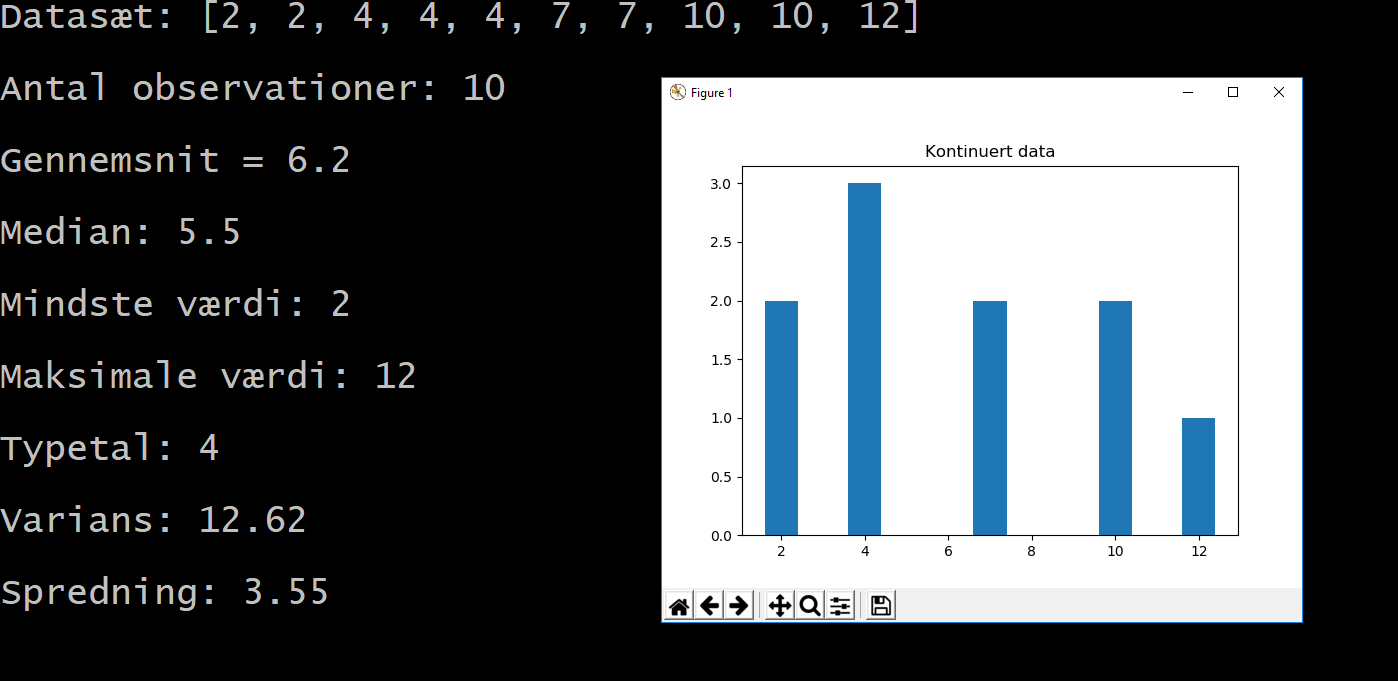
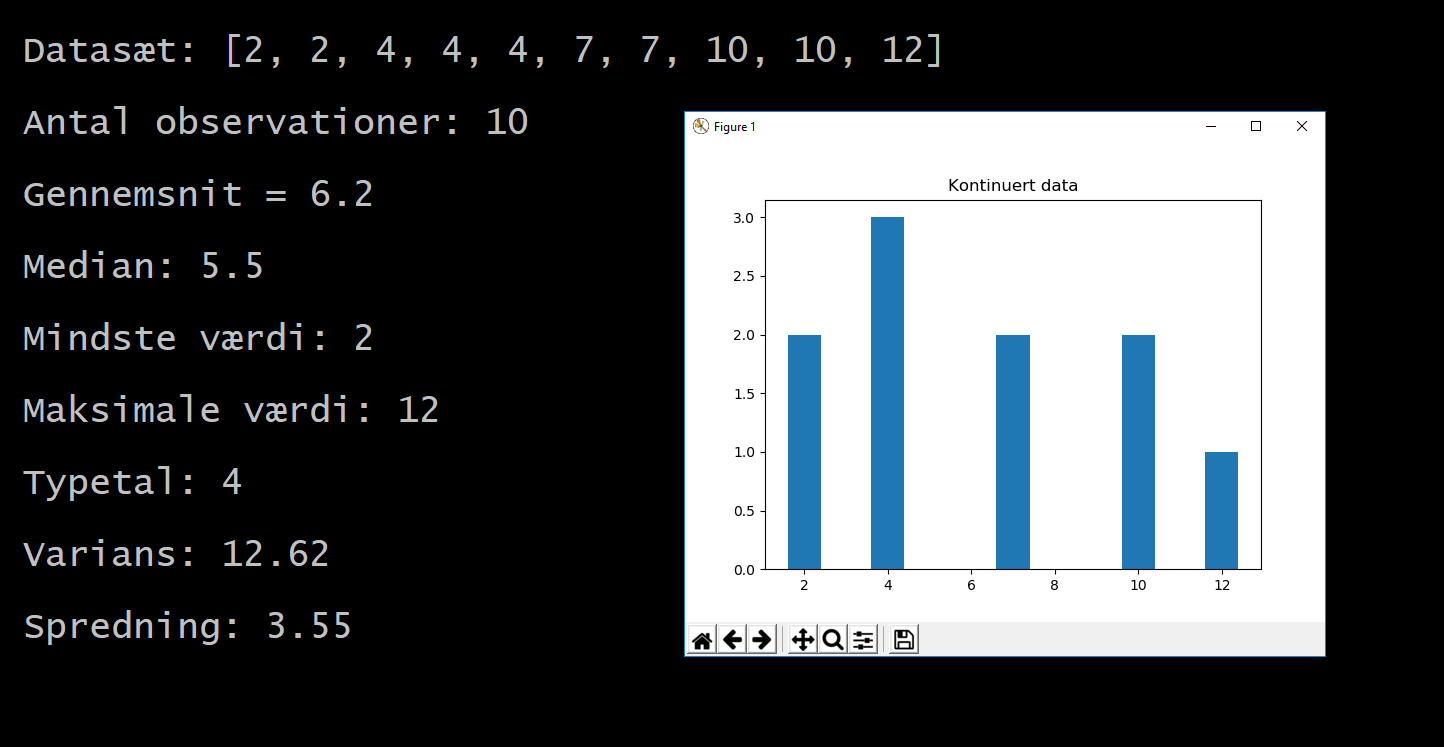
1

diff --git a/python/python09_statistik.html b/python/python09_statistik.html
@@ -201,8 +201,6 @@ Der er ikke noget typtetal.
 	</code>
 </pre>
 
-
-
 <h1>Varians og spredning</h1>
 
 <table class="_">
@@ -231,6 +229,41 @@ Der er ikke noget typtetal.
 >>> st.stdev(x)
 3.552776691859794
 	</code>
+</pre>
+
+<h1>Percentiler</h1>
+
+<pre>
+	<code class="python">
+import statistics as st
+import numpy as np
+
+x = [2, 2, 4, 4, 4, 7, 7, 10, 10, 12]
+
+print("Datasæt: {0}\n".format(x))
+
+print("Percentilsæt")
+
+for i in range(10,101,10):
+
+	print("Værden for den {0}. percentil er: {1}".format(i, round(np.percentile(x,i),1)))
+	</code>
+</pre>
+
+<pre class="black">
+Datasæt: [2, 2, 4, 4, 4, 7, 7, 10, 10, 12]
+
+Percentilsæt
+Værden for den 10. percentil er: 2.0
+Værden for den 20. percentil er: 3.6
+Værden for den 30. percentil er: 4.0
+Værden for den 40. percentil er: 4.0
+Værden for den 50. percentil er: 5.5
+Værden for den 60. percentil er: 7.0
+Værden for den 70. percentil er: 7.9
+Værden for den 80. percentil er: 10.0
+Værden for den 90. percentil er: 10.2
+Værden for den 100. percentil er: 12.0
 </pre>
 
 <h1>Program eksempler</h1>
@@ -310,7 +343,7 @@ Der er ikke noget typtetal.
 
 <figure id="">
 
-	<img class="p70" src="images/python_kontinuert_data_output.png" alt="_" title="_" />
+	<img class="p90" src="images/python_kontinuert_data_output.png" alt="_" title="_" />
 
 	<figcaption>_</figcaption>
 

diff --git a/python/programmer/Valg og funktioner/Egne funktioner/statistic_test.py b/python/programmer/Valg og funktioner/Egne funktioner/statistic_test.py
@@ -1,12 +1,15 @@
 import statistics as st
+import numpy as np
+import matplotlib.pyplot as plt
+import csv
 
-y = [2, 2, 4, 4, 4, 7, 7, 7, 10, 12]
+with open("karakterer.csv", "r") as csvfile:
+		reader = csv.reader(csvfile)
+		x = list(reader)
 
-print("Datasæt: {0}\n".format(y))
-
-try:
-	st.mode(y)
-	print("typetaller er: {0}".format(st.mode(y)))
-	
-except:
-	print("Der er ikke noget typtetal.")
+print(x)
+results = ["1", "2", "3"]
+print(results)
+results = [int(i) for i in results]
+print(results)
+[1, 2, 3]
